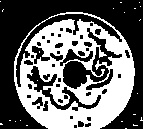
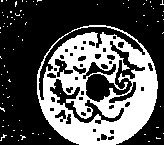
mainMain updated againAgain

diff --git a/main.py b/main.py
@@ -9,24 +9,31 @@ from Morphology import inbuiltMorphology, OpType
 imageInput = cv.imread("Resources/1M-2L-1P-1CL-1C (1).png")
 imageInput_gray = cv.cvtColor(imageInput, cv.COLOR_BGR2GRAY)
 imageInput_arr = np.array(imageInput_gray)
+gaussian_radius = 0
 
 tempCoords = True
 medianFilter = True
+
 convolve_with_gaussian = True
+# Hint: Don't touch these two :D
 adjustImgSize = True
 subtractBlurred = True
+
 binaryThresh = True
 closing = True
 createTemplate = True
 matchTemplates = True
 
+# Grab temmplate coordinates
 if tempCoords:
     template_coords = template_cropping(imageInput)
 
+# Run median filter
 if medianFilter:
     image_processed = median_filter(imageInput_gray, 3)
 
-if convolve_with_gaussian:
+# convolve with gaussian happens here
+if convolve_with_gaussian & medianFilter:
     gaussian_radius = 25
     gaussian_kernel = generate_gaussian_kernel(gaussian_radius, 500)
     image_blurred = convolve(image_processed, gaussian_kernel)
@@ -36,23 +43,73 @@ if convolve_with_gaussian:
         image_resize = cv.resize(image_processed, new_image_size, interpolation=cv.INTER_LINEAR)
         if subtractBlurred:
             image_subtracted = cv.subtract(image_resize, image_blurred)
+elif convolve_with_gaussian:
+    gaussian_radius = 25
+    gaussian_kernel = generate_gaussian_kernel(gaussian_radius, 500)
+    image_blurred = convolve(imageInput_gray, gaussian_kernel)
+    if adjustImgSize:
+        new_image_size = (
+        imageInput_gray.shape[1] - gaussian_radius * 2, imageInput_gray.shape[0] - gaussian_radius * 2)
+        image_resize = cv.resize(imageInput_gray, new_image_size, interpolation=cv.INTER_LINEAR)
+        if subtractBlurred:
+            image_subtracted = cv.subtract(image_resize, image_blurred)
+
+# Binary thresholding happens here
+if binaryThresh & convolve_with_gaussian:
+    ret, image_binary = cv.threshold(image_subtracted, 25, 255, cv.THRESH_BINARY)
+elif binaryThresh & medianFilter:
+    ret, image_binary = cv.threshold(image_processed, 25, 255, cv.THRESH_BINARY)
+elif binaryThresh:
+    ret, image_binary = cv.threshold(imageInput_gray, 25, 255, cv.THRESH_BINARY)
+
+# Run closing operation
+if closing & binaryThresh:
+    image_closed = inbuiltMorphology(image_binary, 5, OpType.Closing)
+elif closing & convolve_with_gaussian:
+    image_closed = inbuiltMorphology(image_subtracted, 5, OpType.Closing)
+elif closing & medianFilter:
+    image_closed = inbuiltMorphology(image_processed, 5, OpType.Closing)
+elif closing:
+    image_closed = inbuiltMorphology(imageInput_gray, 5, OpType.Closing)
+
+# Crop out the selected template using coordinates
+if createTemplate & closing & tempCoords:
+    template = crop(image_closed, template_coords[0] - gaussian_radius, template_coords[1] - gaussian_radius, template_coords[2] - gaussian_radius, template_coords[3] - gaussian_radius)
+elif createTemplate & binaryThresh & tempCoords:
+    template = crop(image_binary, template_coords[0] - gaussian_radius, template_coords[1] - gaussian_radius, template_coords[2] - gaussian_radius, template_coords[3] - gaussian_radius)
+elif createTemplate & convolve_with_gaussian & tempCoords:
+    template = crop(image_subtracted, template_coords[0] - gaussian_radius, template_coords[1] - gaussian_radius, template_coords[2] - gaussian_radius, template_coords[3] - gaussian_radius)
+elif createTemplate & tempCoords & medianFilter:
+    template = crop(image_processed, template_coords[0] - gaussian_radius, template_coords[1] - gaussian_radius, template_coords[2] - gaussian_radius, template_coords[3] - gaussian_radius)
+elif createTemplate & tempCoords:
+    template = crop(imageInput_gray, template_coords[0] - gaussian_radius, template_coords[1] - gaussian_radius, template_coords[2] - gaussian_radius, template_coords[3] - gaussian_radius)
+
+
+
+
+
+if matchTemplates & createTemplate & closing & tempCoords:
+    templateMatching_result = TemplateMatching(imageInput, image_closed, template, gaussian_radius)
+elif matchTemplates & createTemplate & binaryThresh & tempCoords:
+    templateMatching_result = TemplateMatching(imageInput, image_binary, template, gaussian_radius)
+elif matchTemplates & createTemplate & convolve_with_gaussian & tempCoords:
+    templateMatching_result = TemplateMatching(imageInput, image_subtracted, template, gaussian_radius)
+elif matchTemplates & createTemplate & medianFilter & tempCoords:
+    templateMatching_result = TemplateMatching(imageInput, image_processed, template, gaussian_radius)
+elif matchTemplates & createTemplate & tempCoords:
+    templateMatching_result = TemplateMatching(imageInput, imageInput_gray, template, gaussian_radius)
+    
+if convolve_with_gaussian:
+    cv.imshow("blur", image_blurred)
+    cv.imshow("Subtracted", image_subtracted)
 
 if binaryThresh:
-    ret, image_binary = cv.threshold(image_subtracted, 25, 255, cv.THRESH_BINARY)
+    cv.imshow("Binary", image_binary)
 
-if closing:
-    image_closed = inbuiltMorphology(image_binary, 5, OpType.Closing)
+if createTemplate & tempCoords:
+    cv.imshow("template", template)
 
-if createTemplate:
-    template = crop(image_closed, template_coords[0] - gaussian_radius, template_coords[1] - gaussian_radius, template_coords[2] - gaussian_radius, template_coords[3] - gaussian_radius)
+if createTemplate & matchTemplates & tempCoords:
+    cv.imshow("template matching", templateMatching_result)
 
-if matchTemplates:
-    templateMatching_result = TemplateMatching(imageInput, image_closed, template, gaussian_radius)
-    
-
-cv.imshow("blur", image_blurred)
-cv.imshow("Subtracted", image_subtracted)
-cv.imshow("Binary", image_binary)
-cv.imshow("template", template)
-cv.imshow("template matching", templateMatching_result)
 cv.waitKey(0)
